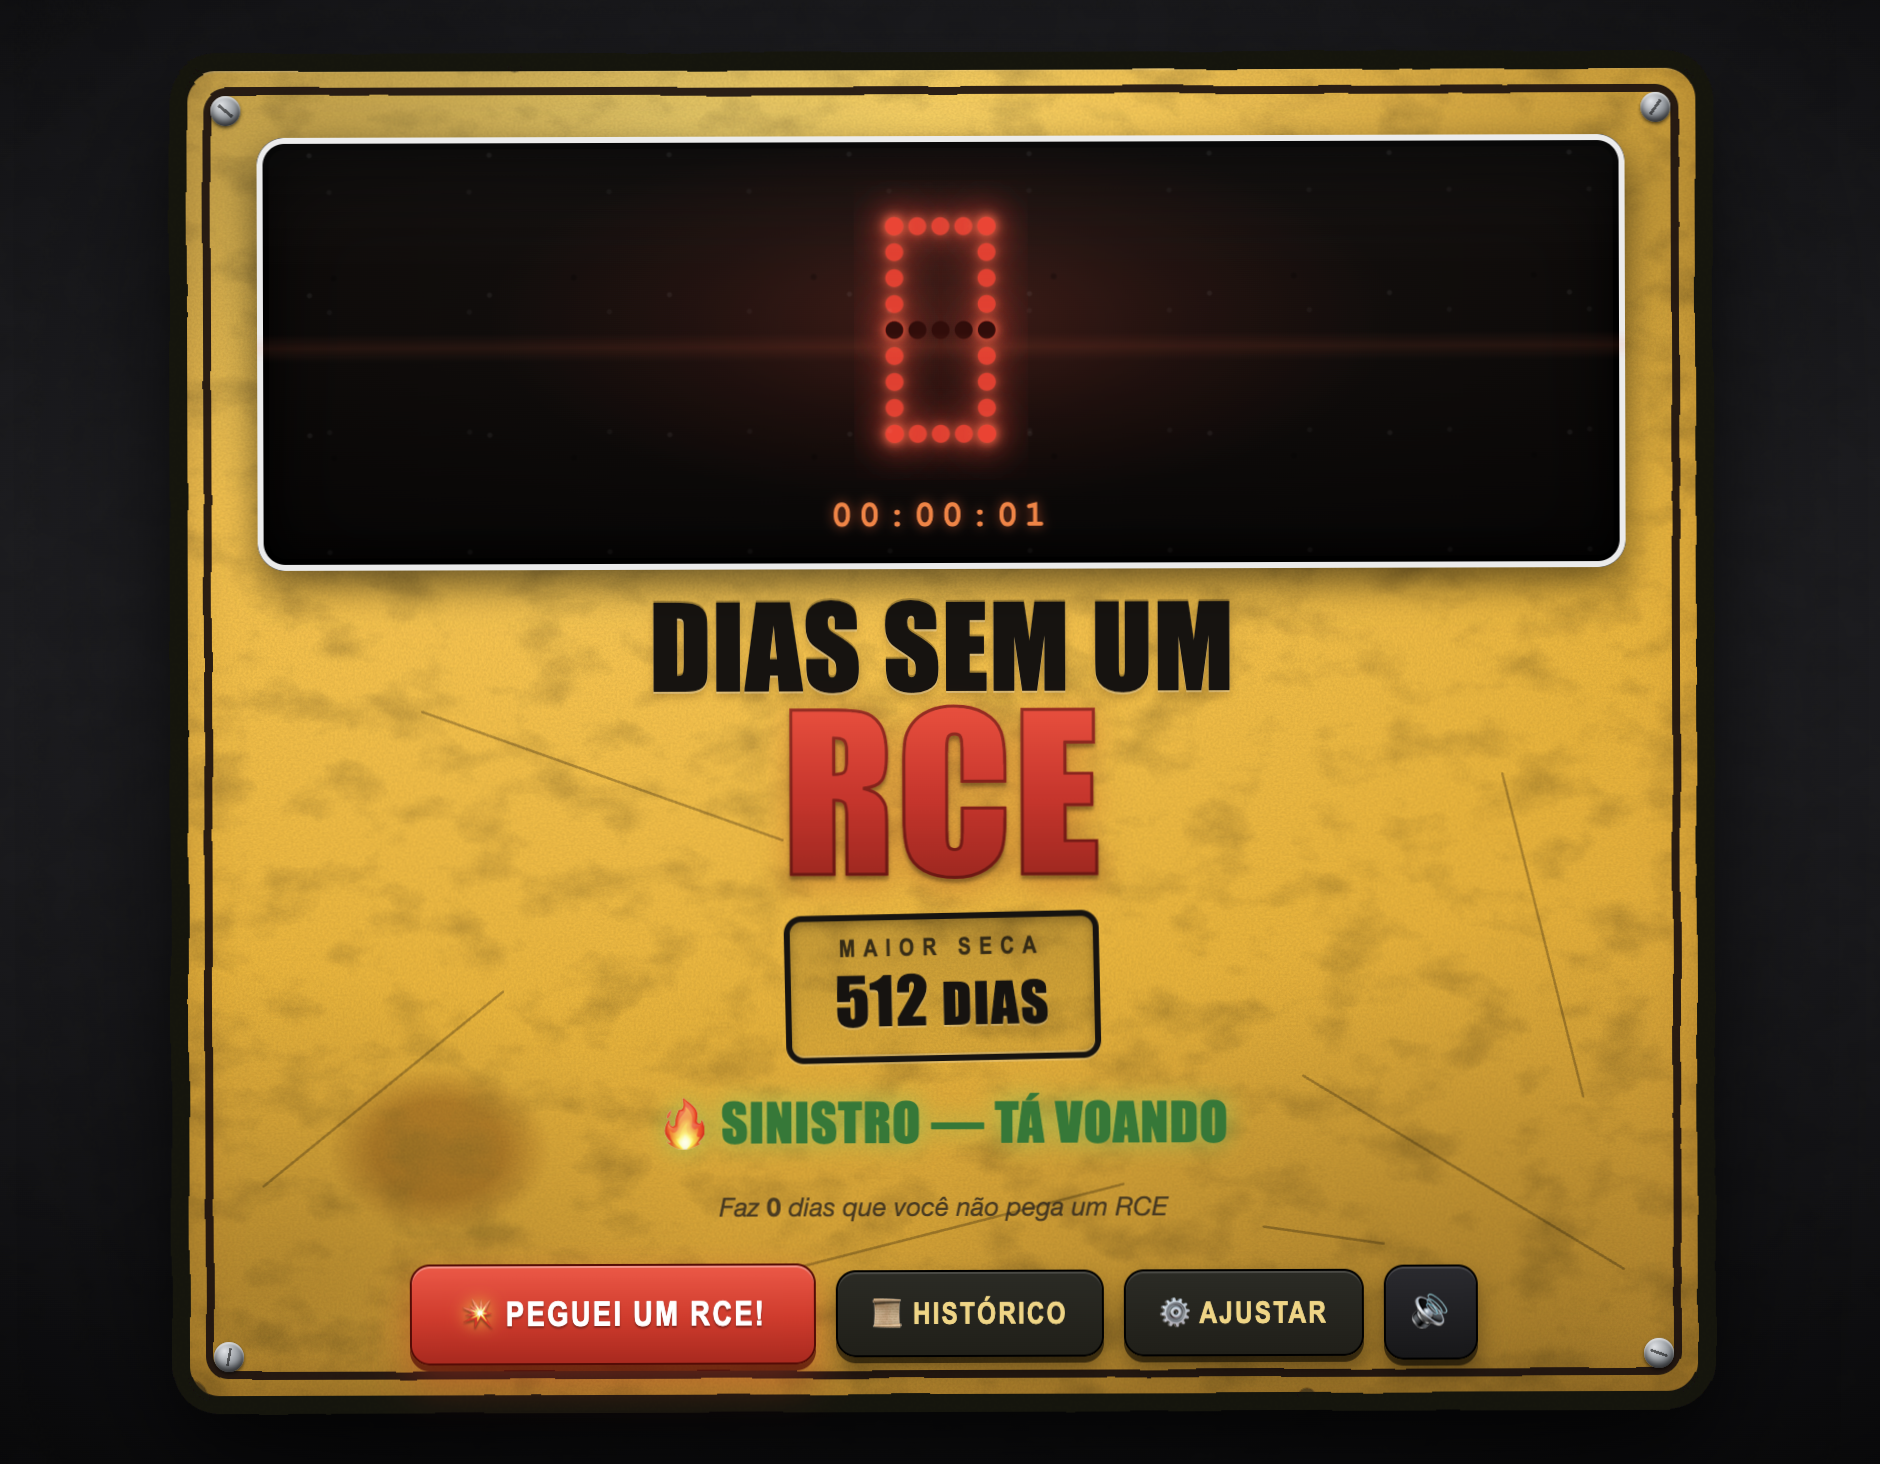
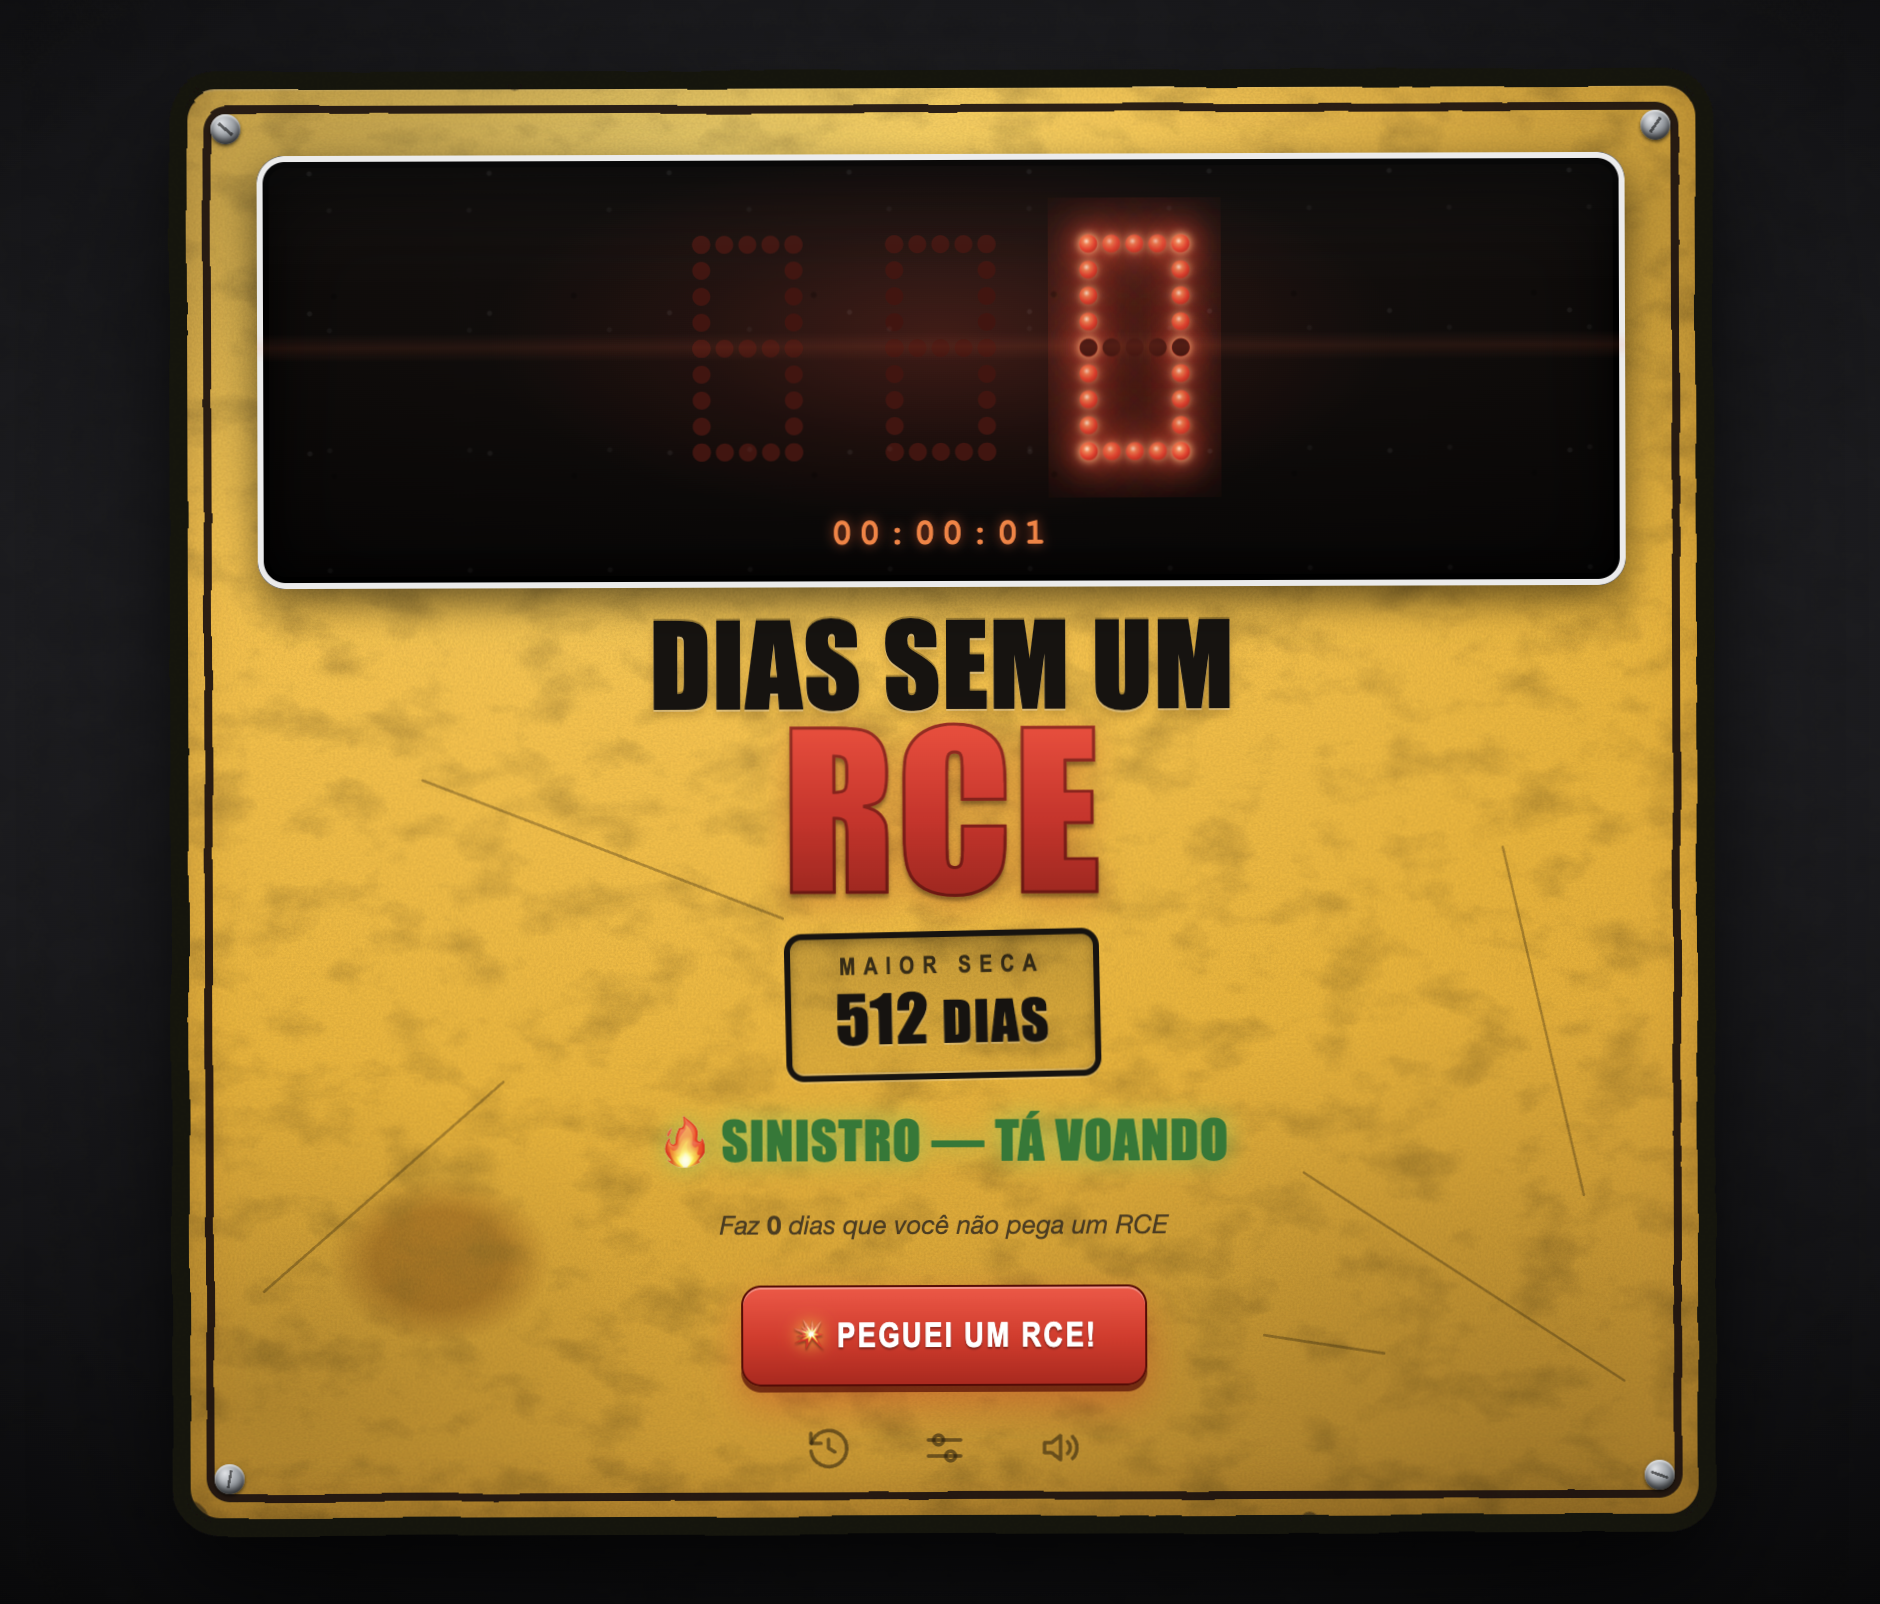
feat: ícones flat-line, CTA centralizado, display melhor e layout responsivo
- Ações secundárias (histórico/ajustar/som) viram ícones flat-line SVG
  discretos e centralizados; CTA 'Peguei um RCE!' isolado e em destaque.
- Display mais bonito: LEDs acesos com cara de lâmpada (gradiente radial),
  LEDs apagados visíveis formando 'grid fantasma' (mín. 3 casas), glow melhor.
- Responsivo: a placa inteira escala pra caber na janela (largura e altura)
  via wrapper absoluto + translate(-50%,-50%) scale(), sempre centralizado.
  Tamanho mínimo da janela reduzido pra poder encolher bastante.
- Tamanhos internos fixos (px) pra escala uniforme; janela um pouco mais alta.

diff --git a/renderer/styles.css b/renderer/styles.css
@@ -10,7 +10,7 @@
   --ink-soft: #2a231c;
   --led-on: #ff2b21;
   --led-on-2: #ff5a3c;
-  --led-off: #360a08;
+  --led-off: #47110d;
   --panel-bg: #0a0807;
   --danger: #d61f1f;
 }
@@ -71,14 +71,26 @@ body {
   height: 100vh;
   display: grid;
   place-items: center;
-  padding: 30px;
+  padding: 20px;
+  overflow: hidden;
+}
+
+/* wrapper que escala a placa inteira pra caber na janela (responsivo).
+   absoluto + translate(-50%,-50%) garante centralização em qualquer escala. */
+.sign-scaler {
+  position: absolute;
+  top: 50%;
+  left: 50%;
+  transform-origin: center center;
+  transform: translate(-50%, -50%) scale(1);
+  will-change: transform;
 }
 
 /* ---------------- Placa amarela (moldura grunge) ---------------- */
 
 .sign {
   position: relative;
-  width: min(760px, 92vw);
+  width: 760px;
   background:
     radial-gradient(135% 115% at 32% 6%, #ffd75e 0%, #ffc22e 34%, var(--yellow) 58%, var(--yellow-deep) 100%);
   border-radius: 18px;
@@ -376,10 +388,11 @@ body {
 }
 
 .digit g.on .led {
-  fill: var(--led-on);
+  fill: url(#ledGrad);
   filter:
-    drop-shadow(0 0 2px var(--led-on-2))
-    drop-shadow(0 0 6px rgba(255,43,33,.85));
+    drop-shadow(0 0 1.5px rgba(255,180,120,.9))
+    drop-shadow(0 0 5px rgba(255,60,30,.9))
+    drop-shadow(0 0 11px rgba(255,30,15,.55));
   animation: ledBreath 4.2s ease-in-out infinite;
 }
 /* respiração sutil do brilho (não pisca forte) */
@@ -424,7 +437,7 @@ body {
 }
 .headline .l1 {
   display: block;
-  font-size: clamp(32px, 6.8vw, 56px);
+  font-size: 56px;
   letter-spacing: .5px;
   /* relevo estampado no metal */
   text-shadow:
@@ -434,7 +447,7 @@ body {
 }
 .headline .l2 {
   display: block;
-  font-size: clamp(56px, 12.5vw, 104px);
+  font-size: 104px;
   letter-spacing: 1px;
   color: var(--danger);
   background: linear-gradient(180deg, #ff4132 0%, var(--danger) 55%, #a81414 100%);
@@ -495,12 +508,38 @@ body {
   position: relative;
   z-index: 9;
   display: flex;
-  gap: 10px;
   justify-content: center;
   align-items: center;
-  margin-top: 14px;
-  flex-wrap: wrap;
+  margin-top: 16px;
 }
+
+/* linha de ícones flat-line discretos */
+.tools {
+  position: relative;
+  z-index: 9;
+  display: flex;
+  gap: 20px;
+  justify-content: center;
+  align-items: center;
+  margin-top: 12px;
+}
+.icon-btn {
+  display: grid;
+  place-items: center;
+  width: 38px;
+  height: 38px;
+  padding: 0;
+  border: 0;
+  border-radius: 10px;
+  background: transparent;
+  color: rgba(23,16,6,.5);
+  cursor: pointer;
+  transition: color .16s ease, background .16s ease, transform .1s ease;
+}
+.icon-btn:hover { color: rgba(23,16,6,.95); background: rgba(0,0,0,.07); }
+.icon-btn:active { transform: translateY(1px); }
+.icon-btn.muted { color: rgba(180,20,17,.7); }
+.icon-btn .ico { width: 24px; height: 24px; display: block; }
 
 .btn {
   font-family: "Arial Narrow", Impact, sans-serif;
@@ -666,7 +705,7 @@ body {
   font-family: "Haettenschweiler", "Impact", "Arial Narrow", sans-serif;
   font-weight: 800;
   letter-spacing: .5px;
-  font-size: clamp(18px, 3.6vw, 26px);
+  font-size: 26px;
   text-transform: uppercase;
   padding: 3px 14px;
   border-radius: 6px;

diff --git a/renderer/renderer.js b/renderer/renderer.js
@@ -40,8 +40,9 @@ const I18N = {
       : n <= 99 ? { text: 'seriously rusty', cls: 'rusty' }
       : { text: 'not a hacker anymore? 💀', cls: 'washed' },
     btnIncident: 'POPPED AN RCE!',
-    btnHistory: 'HISTORY',
-    btnEdit: 'ADJUST',
+    btnHistory: 'History',
+    btnEdit: 'Adjust',
+    sound: 'Sound',
     imTitle: '🎉 Nice pop!',
     imDesc: 'Respect. The rust counter resets to zero. What did you pop? (optional)',
     imPlaceholder: 'CVE-2026-XXXX / target / service...',
@@ -72,8 +73,9 @@ const I18N = {
       : n <= 99 ? { text: 'enferrujando feio', cls: 'rusty' }
       : { text: 'não é mais hacker? 💀', cls: 'washed' },
     btnIncident: 'PEGUEI UM RCE!',
-    btnHistory: 'HISTÓRICO',
-    btnEdit: 'AJUSTAR',
+    btnHistory: 'Histórico',
+    btnEdit: 'Ajustar',
+    sound: 'Som',
     imTitle: '🎉 Mandou bem!',
     imDesc: 'Respeito. O contador de ferrugem zera. O que você mandou? (opcional)',
     imPlaceholder: 'CVE-2026-XXXX / alvo / serviço...',
@@ -105,8 +107,14 @@ function applyLang() {
   setText('recLabel', d.recLabel);
   setText('recDays', d.recDays);
   setText('btnIncidentTxt', d.btnIncident);
-  setText('btnHistoryTxt', d.btnHistory);
-  setText('btnEditTxt', d.btnEdit);
+  // tooltips localizados dos ícones flat
+  const setTitle = (id, txt) => {
+    const n = $(id); if (!n) return;
+    n.title = txt; n.setAttribute('aria-label', txt);
+  };
+  setTitle('btnHistory', d.btnHistory);
+  setTitle('btnEdit', d.btnEdit);
+  setTitle('btnMute', d.sound);
   // modal incidente
   setText('imTitle', d.imTitle);
   setText('imDesc', d.imDesc);
@@ -198,8 +206,14 @@ function winSound() {
   beep(1318.5, 0.44, 0.3, 'triangle', 0.11); // E6 pra fechar
 }
 
+const ICON_SOUND = '<svg class="ico" viewBox="0 0 24 24" fill="none" stroke="currentColor" stroke-width="1.8" stroke-linecap="round" stroke-linejoin="round">'
+  + '<path d="M4 9.5v5h3.5L12 18V6L7.5 9.5H4z"/><path d="M15.5 9a4 4 0 0 1 0 6"/><path d="M18 6.5a8 8 0 0 1 0 11"/></svg>';
+const ICON_MUTED = '<svg class="ico" viewBox="0 0 24 24" fill="none" stroke="currentColor" stroke-width="1.8" stroke-linecap="round" stroke-linejoin="round">'
+  + '<path d="M4 9.5v5h3.5L12 18V6L7.5 9.5H4z"/><line x1="16" y1="9.5" x2="21" y2="14.5"/><line x1="21" y1="9.5" x2="16" y2="14.5"/></svg>';
+
 function updateMuteBtn() {
-  el.btnMute.textContent = muted ? '🔇' : '🔊';
+  el.btnMute.innerHTML = muted ? ICON_MUTED : ICON_SOUND;
+  el.btnMute.classList.toggle('muted', muted);
 }
 
 /* ---------------- confete ---------------- */
@@ -360,6 +374,21 @@ document.querySelectorAll('.modal-backdrop').forEach((bd) => {
   bd.addEventListener('click', (e) => { if (e.target === bd) bd.hidden = true; });
 });
 
+/* ---------------- responsivo: escala pra caber ---------------- */
+
+function fitToWindow() {
+  const scaler = $('signScaler');
+  const sign = el.sign;
+  if (!scaler || !sign) return;
+  scaler.style.transform = 'translate(-50%, -50%) scale(1)'; // reset pra medir natural
+  const w = sign.offsetWidth, h = sign.offsetHeight;
+  const pad = 24;
+  const availW = window.innerWidth - pad;
+  const availH = window.innerHeight - pad;
+  const scale = Math.min(1.35, availW / w, availH / h);
+  scaler.style.transform = 'translate(-50%, -50%) scale(' + scale.toFixed(4) + ')';
+}
+
 /* ---------------- boot ---------------- */
 
 async function boot() {
@@ -376,10 +405,15 @@ async function boot() {
   wireHistoryModal();
   applyLang();
 
+  // responsivo: escala já no início (evita flash) e a cada resize
+  fitToWindow();
+  window.addEventListener('resize', fitToWindow);
+
   const s = await window.rce.get();
   applyState(s);
   tick();
   setInterval(tick, 1000);
+  fitToWindow(); // reajusta após render final
 }
 
 window.addEventListener('DOMContentLoaded', boot);

diff --git a/renderer/index.html b/renderer/index.html
@@ -42,6 +42,13 @@
           values="0 0 0 0 0  0 0 0 0 0  0 0 0 0 0  0 0 0 -2.6 1.35"/>
         <feComposite operator="in" in2="SourceGraphic"/>
       </filter>
+      <!-- LED aceso com cara de lâmpada (centro quente → borda vermelha) -->
+      <radialGradient id="ledGrad" cx="40%" cy="36%" r="68%">
+        <stop offset="0%" stop-color="#ffe9cf"/>
+        <stop offset="28%" stop-color="#ff7a45"/>
+        <stop offset="70%" stop-color="#f2261a"/>
+        <stop offset="100%" stop-color="#c11710"/>
+      </radialGradient>
     </defs>
   </svg>
 
@@ -53,6 +60,7 @@
   </div>
 
   <main class="stage">
+   <div class="sign-scaler" id="signScaler">
     <div class="sign" id="sign">
       <!-- moldura preta gasta (única camada com distorção) -->
       <div class="frame" aria-hidden="true"></div>
@@ -102,16 +110,32 @@
         <div class="tagline" id="tagline"></div>
       </div>
 
-      <!-- Barra de ações -->
+      <!-- CTA principal centralizado -->
       <div class="actions">
         <button class="btn win" id="btnIncident" title="Você pegou um RCE! (zera a ferrugem)">
           <span class="boom">💥</span> <span id="btnIncidentTxt">POPPED AN RCE!</span>
         </button>
-        <button class="btn ghost" id="btnHistory" title="Histórico de incidentes">📜 <span id="btnHistoryTxt">HISTORY</span></button>
-        <button class="btn ghost" id="btnEdit" title="Editar valores">⚙️ <span id="btnEditTxt">ADJUST</span></button>
-        <button class="btn icon" id="btnMute" title="Ligar/desligar som">🔊</button>
+      </div>
+
+      <!-- ações secundárias: ícones flat-line discretos -->
+      <div class="tools">
+        <button class="icon-btn" id="btnHistory" aria-label="History" title="History">
+          <svg class="ico" viewBox="0 0 24 24" fill="none" stroke="currentColor" stroke-width="1.8" stroke-linecap="round" stroke-linejoin="round">
+            <path d="M3.5 9.5A9 9 0 1 1 3.2 13.4"/>
+            <polyline points="3.2 4.5 3.2 9.5 8.2 9.5"/>
+            <polyline points="12 7.5 12 12 15.2 13.8"/>
+          </svg>
+        </button>
+        <button class="icon-btn" id="btnEdit" aria-label="Adjust" title="Adjust">
+          <svg class="ico" viewBox="0 0 24 24" fill="none" stroke="currentColor" stroke-width="1.8" stroke-linecap="round" stroke-linejoin="round">
+            <line x1="4" y1="8" x2="20" y2="8"/><circle cx="9" cy="8" r="2.4"/>
+            <line x1="4" y1="16" x2="20" y2="16"/><circle cx="15" cy="16" r="2.4"/>
+          </svg>
+        </button>
+        <button class="icon-btn" id="btnMute" aria-label="Sound" title="Sound"></button>
       </div>
     </div>
+   </div>
   </main>
 
   <!-- Overlay de comemoração + confete -->

diff --git a/main.js b/main.js
@@ -30,9 +30,9 @@ function registerIpc() {
 function createWindow() {
   win = new BrowserWindow({
     width: 940,
-    height: 760,
-    minWidth: 680,
-    minHeight: 560,
+    height: 830,
+    minWidth: 360,
+    minHeight: 340,
     backgroundColor: '#111112',
     title: 'Days Without RCE',
     show: false,
@@ -50,6 +50,10 @@ function createWindow() {
   // Screenshot de dev (gated): RCE_SHOT=/caminho.png electron .
   if (process.env.RCE_SHOT) {
     win.webContents.once('did-finish-load', async () => {
+      if (process.env.RCE_SIZE) {
+        const [w, h] = process.env.RCE_SIZE.split('x').map(Number);
+        if (w && h) win.setContentSize(w, h);
+      }
       if (process.env.RCE_LANG) {
         await win.webContents.executeJavaScript(
           `localStorage.setItem('rce.lang','${process.env.RCE_LANG}')`);

diff --git a/renderer/segments.js b/renderer/segments.js
@@ -83,10 +83,13 @@ function setDigit(svg, ch) {
   });
 }
 
+const MIN_SLOTS = 3; // casas mínimas; as sobrando viram dígitos "fantasma" (apagados)
+
 // Renderiza um número inteiro em `container` como painel de dígitos.
 // Reaproveita os <svg> existentes; só cria/remove quando muda a qtd.
 function renderNumber(container, value) {
-  const str = String(Math.max(0, Math.floor(value)));
+  let str = String(Math.max(0, Math.floor(value)));
+  while (str.length < MIN_SLOTS) str = ' ' + str; // padding esquerdo = fantasma
   const chars = str.split('');
 
   // Ajusta a quantidade de dígitos no DOM